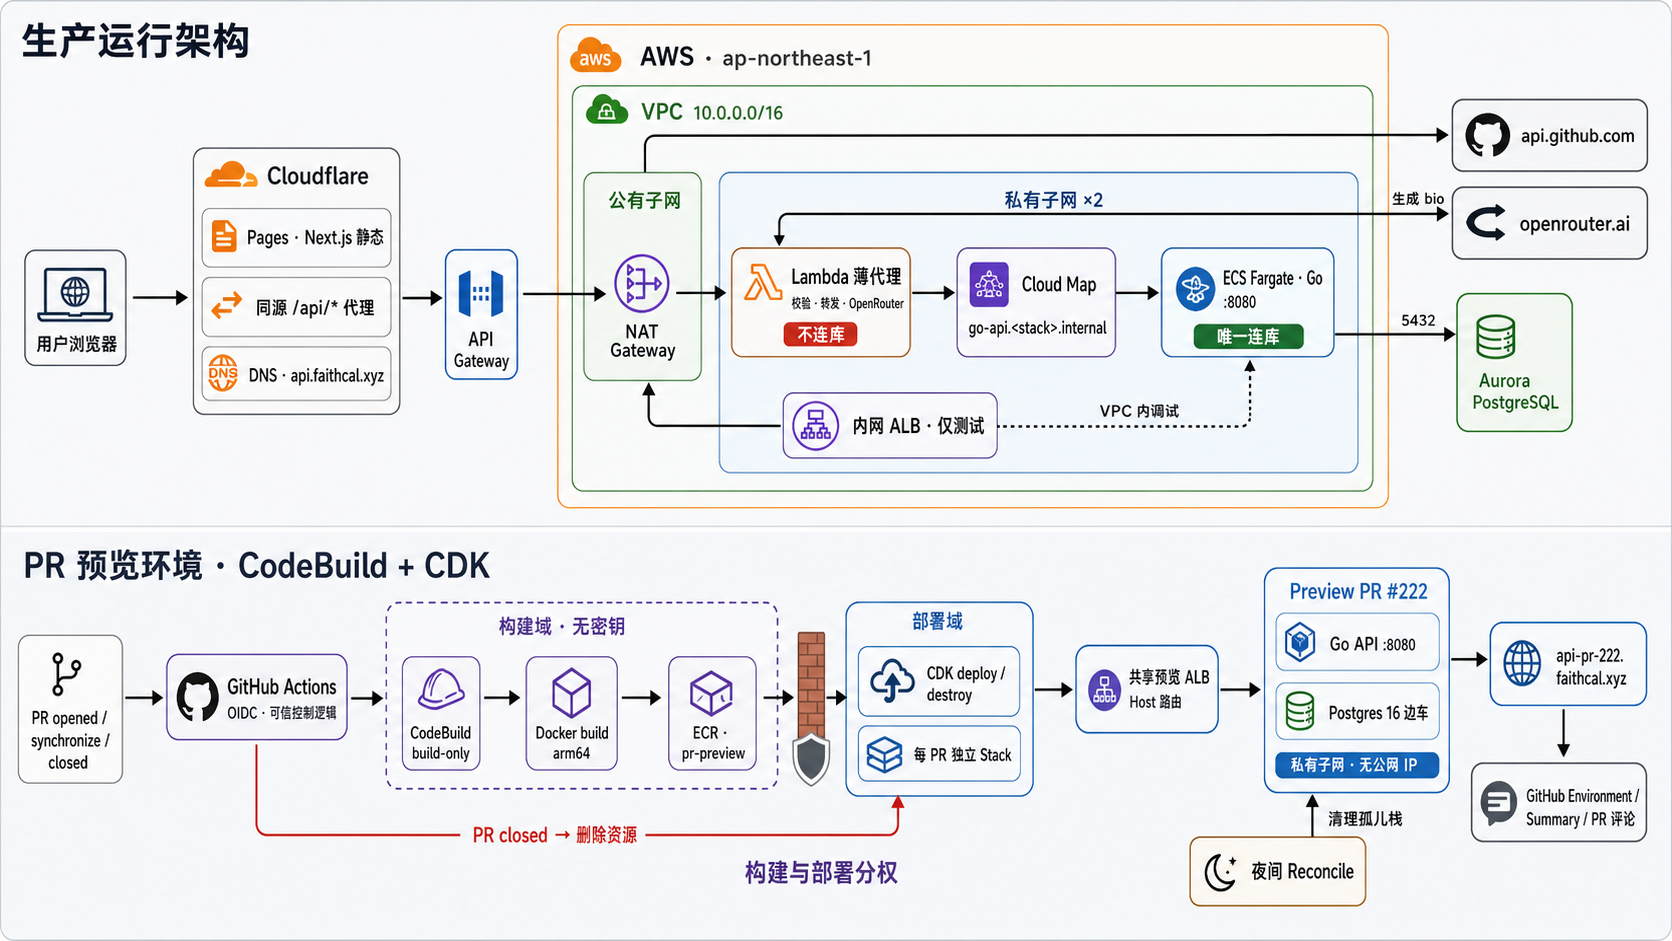
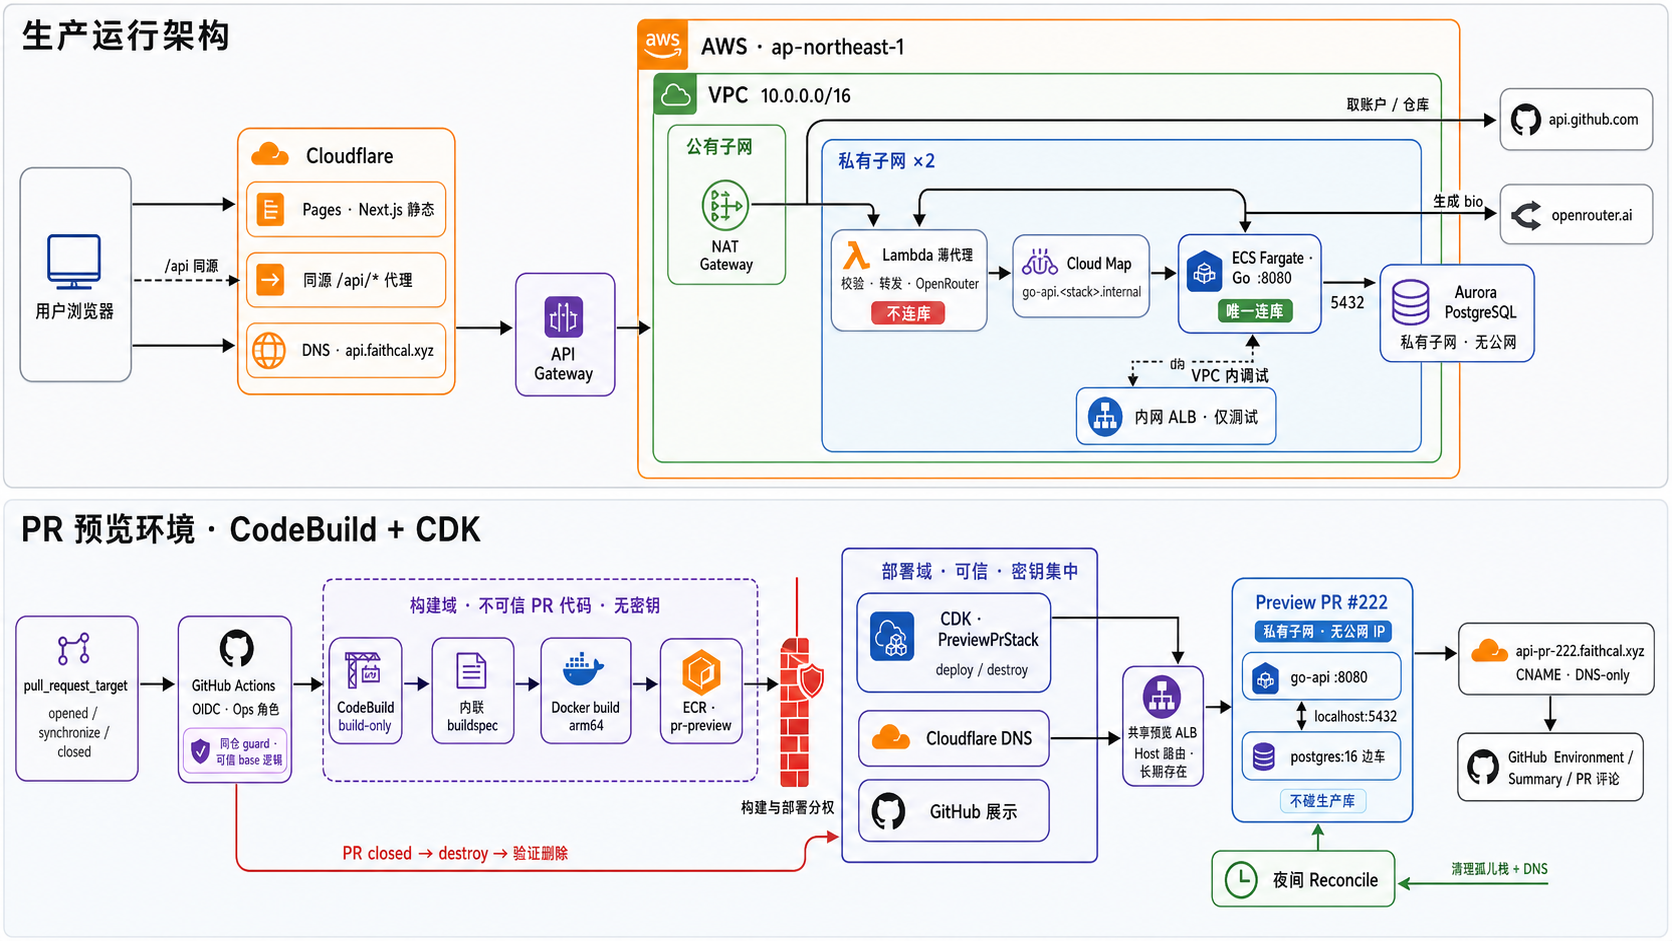
docs: 修正架构图 Aurora 位置（VPC 私有子网内，非 VPC 外）
- 系统架构 PNG 重绘：Aurora 移入 VPC 私有子网、5432 连线在 VPC 内
- 架构图.md mermaid：AUR 节点移入「私有子网 x2」子图并标注无公网
实际部署核实：DB PubliclyAccessible=false、私有子网、SG 仅放行 ECS。

Changed region(s): [[0.0, 0.0, 1.0, 1.0], [0.4354, 0.6164, 0.4665, 0.6472]]

diff --git a/docs/架构图.md b/docs/架构图.md
@@ -22,9 +22,9 @@ graph TB
                 L["λ Lambda 薄代理<br/>校验 + 转发 + OpenRouter<br/>❌ 不连库"]
                 ECS["🐹 ECS Fargate · Go :8080<br/>✅ 唯一连库"]
                 ALB["内网 ALB · 仅测试"]
+                AUR[("🐘 Aurora PostgreSQL<br/>私有子网 · 无公网")]
             end
             CMAP["🧭 Cloud Map<br/>go-api.&lt;stack&gt;.internal"]
-            AUR[("🐘 Aurora PostgreSQL")]
         end
     end
 
